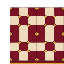
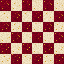
[0.55.1] Fix Game Corner grid tiles and exit

diff --git a/src/data/games/rock-push/entries/celadon-game-corner.ts b/src/data/games/rock-push/entries/celadon-game-corner.ts
@@ -26,7 +26,7 @@ export const celadonGameCornerbasicEntries: RockPushGameConfig[] = [
     id: 'grid-adventure-celadon-game-corner-test',
     name: 'Celadon Game Corner Grid Test',
     description:
-      'Explore a Celadon Game Corner floor lined with twelve slot machines and reach the exit at the bottom. One machine may be a lucky find with better odds.',
+      'Explore a Celadon Game Corner floor lined with twelve slot machines and reach the large doorway in the back wall. One machine may be a lucky find with better odds.',
     category: 'Kanto',
     subCategory: 'Test',
     icon: { type: 'local', id: '/games/grid-objects/celadon-slot-machine.png' },
@@ -38,12 +38,12 @@ export const celadonGameCornerbasicEntries: RockPushGameConfig[] = [
       tilePaletteId: 'celadon-game-corner',
       timeLimit: 1800,
       grid_size: 9,
-      playerStart: { x: 4, y: 1 },
+      playerStart: { x: 4, y: 7 },
       startScreen: 'arcade-floor',
       screens: [{
         id: 'arcade-floor',
         objects: slotMachinePlacements,
-        winTiles: [{ x: 4, y: 8 }],
+        winTiles: [{ x: 4, y: 0 }],
       }],
     },
   },

diff --git a/src/data/games/grid-tiles/index.ts b/src/data/games/grid-tiles/index.ts
@@ -94,7 +94,7 @@ export const gridTilePalettes = {
     walls: {
       back: { src: '/games/grid-tiles/celadon-game-corner/walls/back.png' },
       markers: {
-        goal: { src: '/games/grid-tiles/celadon-game-corner/floor/markers/goal.png' },
+        goal: { src: '/games/grid-tiles/celadon-game-corner/walls/markers/goal.png' },
         teleporter: { src: '/games/grid-tiles/grass/walls/markers/teleporter.png' },
       },
     },
@@ -105,7 +105,7 @@ export const gridTilePalettes = {
     },
     credits: [{
       label: 'Pokeori Celadon Game Corner pixel-art tiles',
-      notice: 'AI-generated 64×64 floor, lucky floor variation, back wall, and exit marker for the shared 16×16 logical grid.',
+      notice: 'AI-generated opaque 64×64 checkerboard floor tiles, a full-bleed back wall, and an integrated wall doorway for the shared 16×16 logical grid.',
       external: false,
     }],
   },

diff --git a/docs/features/grid-sprite-sets.md b/docs/features/grid-sprite-sets.md
@@ -1,6 +1,6 @@
 # Grid sprite-set contract
 
-The combined `grid-adventure-test` has three connected outdoor scenes and five Route 1 Pokémon sprite battle markers. Any three successful battles clear it; the three lives are an independent optional failure limit, and the course has no move limit or step counter. `grid-adventure-celadon-game-corner-test` uses a generated Celadon arcade palette, a bottom exit, and twelve interactive slot machines arranged in four columns across three rows. Each machine uses the low-stakes 5-token test slot game; half of new runs replace one randomly selected machine with a 70%-odds version. The lucky selection is saved in the activity configuration so it remains stable after reloads and is used for completion verification. Room schemas validate object placements with the shared object schema. Grid initialization ignores overlapping starts so an encounter/battle return cannot consume its saved room checkpoint twice. Integrated battles, catches, and minigames return to the grid without offering replay, keeping each placement to one attempt before the player resolves its outcome.
+The combined `grid-adventure-test` has three connected outdoor scenes and five Route 1 Pokémon sprite battle markers. Any three successful battles clear it; the three lives are an independent optional failure limit, and the course has no move limit or step counter. `grid-adventure-celadon-game-corner-test` uses opaque, edge-to-edge checkerboard floor tiles, a centered doorway built into the top wall, and twelve interactive slot machines arranged in four columns across three rows. Each machine uses the low-stakes 5-token test slot game; half of new runs replace one randomly selected machine with a 70%-odds version. The lucky selection is saved in the activity configuration so it remains stable after reloads and is used for completion verification. Room schemas validate object placements with the shared object schema. Grid initialization ignores overlapping starts so an encounter/battle return cannot consume its saved room checkpoint twice. Integrated battles, catches, and minigames return to the grid without offering replay, keeping each placement to one attempt before the player resolves its outcome.
 
 Player appearance comes from the saved trainer gender in all three grid variants, independently of terrain sets: Lucas for male, Dawn for female, and Ditto for neither or an unset legacy profile. `GridPlayerSprite` renders all three 256×256 sheets as sixteen 64×64 frames, with down, left, right, and up rows and four movement frames per row. Ditto uses the Following Pokémon EX overworld sheet and shares the 360ms walking cycle. Voltorb and protected Kanto Rattata/Ditto use downward-facing overworld frames; full source sheets and extracted idle frames live in `public/games/overworld/`. Credits are recorded in `ATTRIBUTIONS.md` and the in-app Credits & Legal registry. Player appearance does not affect collisions or game rules. Legacy per-game player sprite overrides are no longer used by these renderers; the generic trainer asset remains available for NPC battle markers.
 

diff --git a/docs/current-game-state.md b/docs/current-game-state.md
@@ -1,6 +1,6 @@
 # Current Game State
 
-Unreleased: Surf catches now carry the game's authored background into the capture result and saved Pokémon. Celadon Department Store 1F labels the battle-potion item as `Potion`. Rock Push supports optional lives and an independent activity-success win condition. `grid-adventure-test` has three connected outdoor scenes, five Route 1 Pokémon battle markers, three required battle wins, three lives, and no step count. `grid-adventure-celadon-game-corner-test` adds a Celadon arcade palette and a 4-by-3 field of slot machines leading to a bottom exit; half of new runs feature one randomly selected 70%-odds machine alongside the standard 40%-odds test slots.
+Unreleased: Surf catches now carry the game's authored background into the capture result and saved Pokémon. Celadon Department Store 1F labels the battle-potion item as `Potion`. Rock Push supports optional lives and an independent activity-success win condition. `grid-adventure-test` has three connected outdoor scenes, five Route 1 Pokémon battle markers, three required battle wins, three lives, and no step count. `grid-adventure-celadon-game-corner-test` adds a Celadon arcade palette with opaque edge-to-edge floor tiles and a large doorway built into the top wall, plus a 4-by-3 field of slot machines; half of new runs feature one randomly selected 70%-odds machine alongside the standard 40%-odds test slots.
 
 Release `0.53.2`: The free Mt. Moon mining wall no longer grants Geodude research XP. Moon Stone and all three fossils (Dome Fossil, Helix Fossil, and Old Amber) each have a 1% chance per treasure slot. With 2–4 slots, the chance of finding at least one of those four target items in a wall is about 11.5% (roughly once every 8.7 games). Rock Tunnel's Metal Coat chance is 1.2% per treasure slot; Metal Scrap is 74.1% and Small Stone is 24.7%, making scrap three times as likely. Explore-card action buttons use skill icons for their activity: Explorer for captures, expeditions, and voyages; Researcher for field research; Trainer for battles and VS Seeker. EX games keep their normal activity icon with a bold italic EX mark.
 
